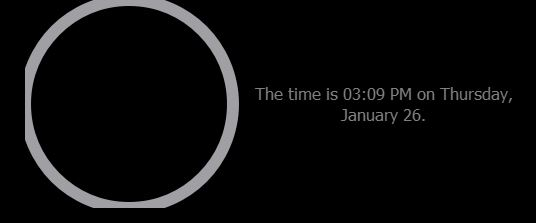
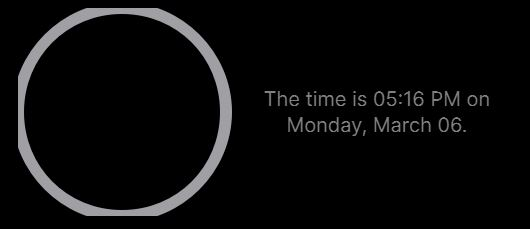
Updated tutorial with new info.

diff --git a/widgets.py b/widgets.py
@@ -9,7 +9,8 @@ from math import asin, cos
 
 class Window(QtWidgets.QMainWindow):
     def __init__(self, width: int, height: int, stylesheet: str = "default", maintain_position: str = "bottom",
-                 default_color: QColor = QtCore.Qt.GlobalColor.gray, flags: QtCore.Qt.WindowType = None):
+                 default_color: Union[str, QColor, tuple] = QtCore.Qt.GlobalColor.gray,
+                 flags: QtCore.Qt.WindowType = None):
         """
         The main window containing all your pywidgets. After instantiating one of these,
         call its finish_init() method with a list of the pywidgets you want in the window to complete the setup.
@@ -611,14 +612,21 @@ def get_application(*args, **kwargs) -> QtWidgets.QApplication:
 
 
 def get_window(app: QtWidgets.QApplication, width: Union[int, str] = "default", offset: int = 1,
-               stylesheet: str = "default", **kwargs) -> Window:
+               stylesheet: str = "default", maintain_position: str = "bottom",
+               default_color: QColor = QtCore.Qt.GlobalColor.gray, flags: QtCore.Qt.WindowType = None) -> Window:
     """
     A wrapper function for creating a new window with dimensions {width} by your screen height on the right edge of the screen.
     Any other keyword arguments passed to this function will be passed on to the Window class.
     :param app: the QApplication instance, can be created with get_application() as a convenience wrapper.
     :param width: the width the new window should have, in pixels, or one of the strings "default" (for ~1/8th width) or "max".
     :param offset: the amount of pixels left the window should be moved to account for how visible the edge is. Ignored if width is max.
-    :param stylesheet: a css stylesheet for the window to use.
+    :param stylesheet: a css stylesheet for all the widgets - usually contains at least a color and a font-family.
+    :param maintain_position: where the window should stay - "bottom" to appear part of the desktop, "top" to stay
+        on top, or "default" to behave like a normal window.
+    :param default_color: the color for all widgets to default to, if not provided a different color as an argument.
+        Accepts anything that can be cast to a QColor.
+    :param flags: Window type flags, to be passed along to the QMainWindow class.
+
     :return: the new Window instance.
     """
     window_dims = app.primaryScreen().availableGeometry()
@@ -629,6 +637,6 @@ def get_window(app: QtWidgets.QApplication, width: Union[int, str] = "default", 
             width = window_dims.width()
             offset = 0
         else: raise ValueError(f"No preset width corresponding to given argument {width} in get_window().")
-    window = Window(width, height, stylesheet, **kwargs)
+    window = Window(width, height, stylesheet, maintain_position, default_color, flags)
     window.move(window_dims.width() - width - offset, 0)
     return window

diff --git a/custom widget tutorial/clock_widget.py b/custom widget tutorial/clock_widget.py
@@ -1,16 +1,17 @@
-from PyQt6.QtWidgets import QWidget
 from PyQt6 import QtGui, QtCore
 from pywidgets.JITstrings import JITstring, PyCmd
-from pywidgets.widgets import TextWidget
+from pywidgets.widgets import TextWidget, BaseWidget
 from datetime import datetime
 from math import sin, cos, pi
 
 
-class ClockWidget(QWidget):
+class ClockWidget(BaseWidget):
     """A widget displaying an analog clock."""
 
-    def __init__(self, parent, height=None):
+    def __init__(self, parent, height=None, color=None):
         super().__init__(parent)
+        self.color = color if color is not None else self.default_color
+
         height = height if height is not None else round(parent.height() / 10)
         self.setFixedSize(parent.width(), height)
         self.setFont(parent.font())
@@ -39,10 +40,10 @@ class ClockWidget(QWidget):
     def paintEvent(self, event):
         painter = QtGui.QPainter(self)
         painter.setRenderHint(QtGui.QPainter.RenderHint.Antialiasing)
-        color = QtCore.Qt.GlobalColor.gray
         thickness = round(self.height() / 18)  # pixels, use 1/18th of height so that it scales
         style = QtCore.Qt.PenStyle.SolidLine
-        pen = QtGui.QPen(color, thickness, style)
+        pen = QtGui.QPen(self.color, thickness, style)
+        pen.setCapStyle(QtCore.Qt.PenCapStyle.RoundCap)
         painter.setPen(pen)
 
         newsize = self.clock_size - thickness
@@ -52,8 +53,9 @@ class ClockWidget(QWidget):
         painter.drawArc(offset, offset, newsize, newsize, 0, 360 * 16)
 
         time = datetime.now()
-        hour_angle = ((time.hour % 12) / 12) * 2 * pi  # percentage of rotation done * a full circle in radians
-        minute_angle = (time.minute / 60) * 2 * pi  # percentage of a rotation done * a full circle in radians
+        # note that time.hour and time.minute start at 0, so we use 11 hours instead of 12 and 59 min instead of 60
+        hour_angle = ((time.hour % 11) / 11) * 2 * pi  # percentage of rotation done * a full circle in radians
+        minute_angle = (time.minute / 59) * 2 * pi  # percentage of a rotation done * a full circle in radians
 
         minute_hand_length = round(newsize / 2 - thickness)  # inner radius of the circle minus the line thickness
         hour_hand_length = .75 * minute_hand_length

diff --git a/custom widget tutorial/clock_test_page.py b/custom widget tutorial/clock_test_page.py
@@ -2,7 +2,8 @@ import pywidgets
 from clock_widget import ClockWidget
 
 app = pywidgets.get_application()
-window = pywidgets.get_window(app)
+default_color = "grey"  # this is already the default so there's no need to specify, but it's here in case you want to change it
+window = pywidgets.get_window(app, default_color=default_color)
 window.add_widget(ClockWidget(window))
 window.finish_init()
 exit(app.exec())

diff --git a/custom widget tutorial/tutorial.md b/custom widget tutorial/tutorial.md
@@ -7,61 +7,69 @@ if you'd like to run it yourself.
 
 To begin creating the widget, we'll need our import statements; don't worry about them too much for now.  
 ```python3
-from PyQt6.QtWidgets import QWidget
 from PyQt6 import QtGui, QtCore
 from pywidgets.JITstrings import JITstring, PyCmd
-from pywidgets.widgets import TextWidget
+from pywidgets.widgets import TextWidget, BaseWidget
 from datetime import datetime
 from math import sin, cos, pi
 ```
 Next, we'll need to define a class for the new widget; we can call it a `ClockWidget`, 
-and it should inherit from Qt5's QWidget.
+and it should inherit from the pywidgets BaseWidget. This gives it access to the parent widget's default color and font.
 ```python3
-class ClockWidget(QWidget):
+class ClockWidget(BaseWidget):
     """A widget displaying an analog clock."""
     ...
 ```
 Now we'll need to make the init method for our widget and decide its arguments. It should 
 take its parent widget at minimum, but it's useful to have other optional variables for 
 customization. These can be colors, fonts, line widths or styles, etc. For now, we'll only do
-the parent and the desired height as an optional argument:
+the parent, plus the desired height and color as optional arguments:
 ```python3
-class ClockWidget(QWidget):
+class ClockWidget(BaseWidget):
     """A widget displaying an analog clock."""
     
-    def __init__(self, parent, height=None):
+    def __init__(self, parent, height=None, color=None):
         super().__init__(parent)
+        self.color = color if color is not None else self.default_color
 ```
-We'll need to decide on a default size for the widget; for now, let's use 10% of the parent's height
-and the full available width. We'll copy the parent's font for this, which is usually a good idea
-to keep a consistent style with other widgets.
+Note that `self.default_color` exists and has the correct color because we've inherited from `BaseWidget` and
+called `super().__init__(parent)`. By doing this, we have access to the default style all widgets should try 
+to maintain; the default color makes everything look consistent and the font is automatically set. As long as 
+your widget meets those two criteria, a user can add an instance of your widget to their page script and it'll 
+automatically match their style.  
+
+Next we'll need to decide on a default size for the widget; for now, let's use 10% of the parent's height
+and the full available width. 
 ```python3
-def __init__(self, parent, height=None):
-    super.__init__(parent)
+def __init__(self, parent, height=None, color=None):
+    ...
     height = height if height is not None else round(parent.height()/10)
     self.setFixedSize(parent.width(), height)
-    self.setFont(parent.font())
 ```
 For this widget, we'll assume the parent page shape is the default, a tall stack of widgets where 
 10% of the height is smaller than the width. That means we can take a square space for the 
 drawing of the clock dimensions `height`x`height` and still have some space left over beside it.  
 Let's make a sub-widget for the text now, after reserving some space on the left for the clock:
 ```python3
-def __init__(self, parent, height=None):
+def __init__(self, parent, height=None, color=None):
     ...
     self.clock_size = height
     self.label = TextWidget(self)  # a TextWidget is just a QLabel wrapper w/ formatting
     # set position and size: setGeometry(x, y, w, h) relative to this widget's top left
     self.label.setGeometry(self.clock_size, 0, self.width() - self.clock_size, height)
 ```
+Note that the TextWidget will automatically use the color and font set in `clock_test_page.py` as long as its parent
+(this `ClockWidget` class) inherits from `BaseWidget` and calls `super().__init__(parent)`.  
+
 We now have the basic layout we want; a square space for our clock, and an area for text on its left.
 Drawing the clock will have its own function, so let's continue working on the text for now.  
 For this, we'll use a `JITstring`; think of it as the `str.format()` method, but run each time
 the string is accessed. The first argument is the basic string, with curly braces {} as placeholders 
 for where the arguments should go. Then we give it a list of the argumments, in order. 
+
 To get the date and time, we'll use python's datetime:
 ```python3
-def __init__(self, parent, height=None):
+def __init__(self, parent, height=None, color=None):
     ...
     def get_time(fmt): return datetime.now().strftime(fmt)
     time = PyCmd(get_time, "%I:%M %p")
@@ -73,7 +81,7 @@ second is the obvious choice. We won't actually be adding a second hand in this 
 so it's a little overkill, but the more often it refreshes the more accurate it is.
 We'll tell the timer to run a method we haven't created yet, called `do_cmds()`.
 ```python3
-def __init__(self, parent, height=None):
+def __init__(self, parent, height=None, color=None):
     ...
     update_interval = 1000  # 1 second in ms
     self.timer = QtCore.QTimer()
@@ -97,10 +105,10 @@ to vary the look:
 def paintEvent(self, event):
     painter = QtGui.QPainter(self)
     painter.setRenderHint(QtGui.QPainter.RenderHint.Antialiasing)
-    color = QtCore.Qt.GlobalColor.gray
     thickness = round(self.height() / 18)  # pixels, use 1/18th of height so that it scales
     style = QtCore.Qt.PenStyle.SolidLine
-    pen = QtGui.QPen(color, thickness, style)
+    pen = QtGui.QPen(self.color, thickness, style)
+    pen.setCapStyle(QtCore.Qt.PenCapStyle.RoundCap)
     painter.setPen(pen)
 ```
 This gives us the painter we need to draw whatever we have in mind, in this case the clock. 
@@ -134,19 +142,20 @@ if you're not big on trigonometry just skip this part:
 def paintEvent(self, event):
     ...
     time = datetime.now()
-        hour_angle = ((time.hour % 12) / 12) * 2 * pi  # percentage of rotation done * a full circle in radians
-        minute_angle = (time.minute / 60) * 2 * pi  # percentage of a rotation done * a full circle in radians
+    # note that time.hour and time.minute start at 0, so we use 11 hours instead of 12 and 59 min instead of 60
+    hour_angle = ((time.hour % 11) / 11) * 2 * pi  # percentage of rotation done * a full circle in radians
+    minute_angle = (time.minute / 59) * 2 * pi  # percentage of a rotation done * a full circle in radians
+    
+    minute_hand_length = round(newsize / 2 - thickness)  # inner radius of the circle minus the line thickness
+    hour_hand_length = .75 * minute_hand_length
 
-        minute_hand_length = round(newsize / 2 - thickness)  # inner radius of the circle minus the line thickness
-        hour_hand_length = .75 * minute_hand_length
+    center = round(self.clock_size / 2)  # center x and y coordinates are the same, so only using one
 
-        center = round(self.clock_size / 2)  # center x and y coordinates are the same, so only using one
+    hour_x = center + round(hour_hand_length * sin(hour_angle))
+    hour_y = center - round(hour_hand_length * cos(hour_angle))
 
-        hour_x = center + round(hour_hand_length * sin(hour_angle))
-        hour_y = center - round(hour_hand_length * cos(hour_angle))
-
-        minute_x = center + round(minute_hand_length * sin(minute_angle))
-        minute_y = center - round(minute_hand_length * cos(minute_angle))
+    minute_x = center + round(minute_hand_length * sin(minute_angle))
+    minute_y = center - round(minute_hand_length * cos(minute_angle))
 ```
 Now all that's left is to actually draw the lines, and then tell the painter we're done: 
 ```python3
